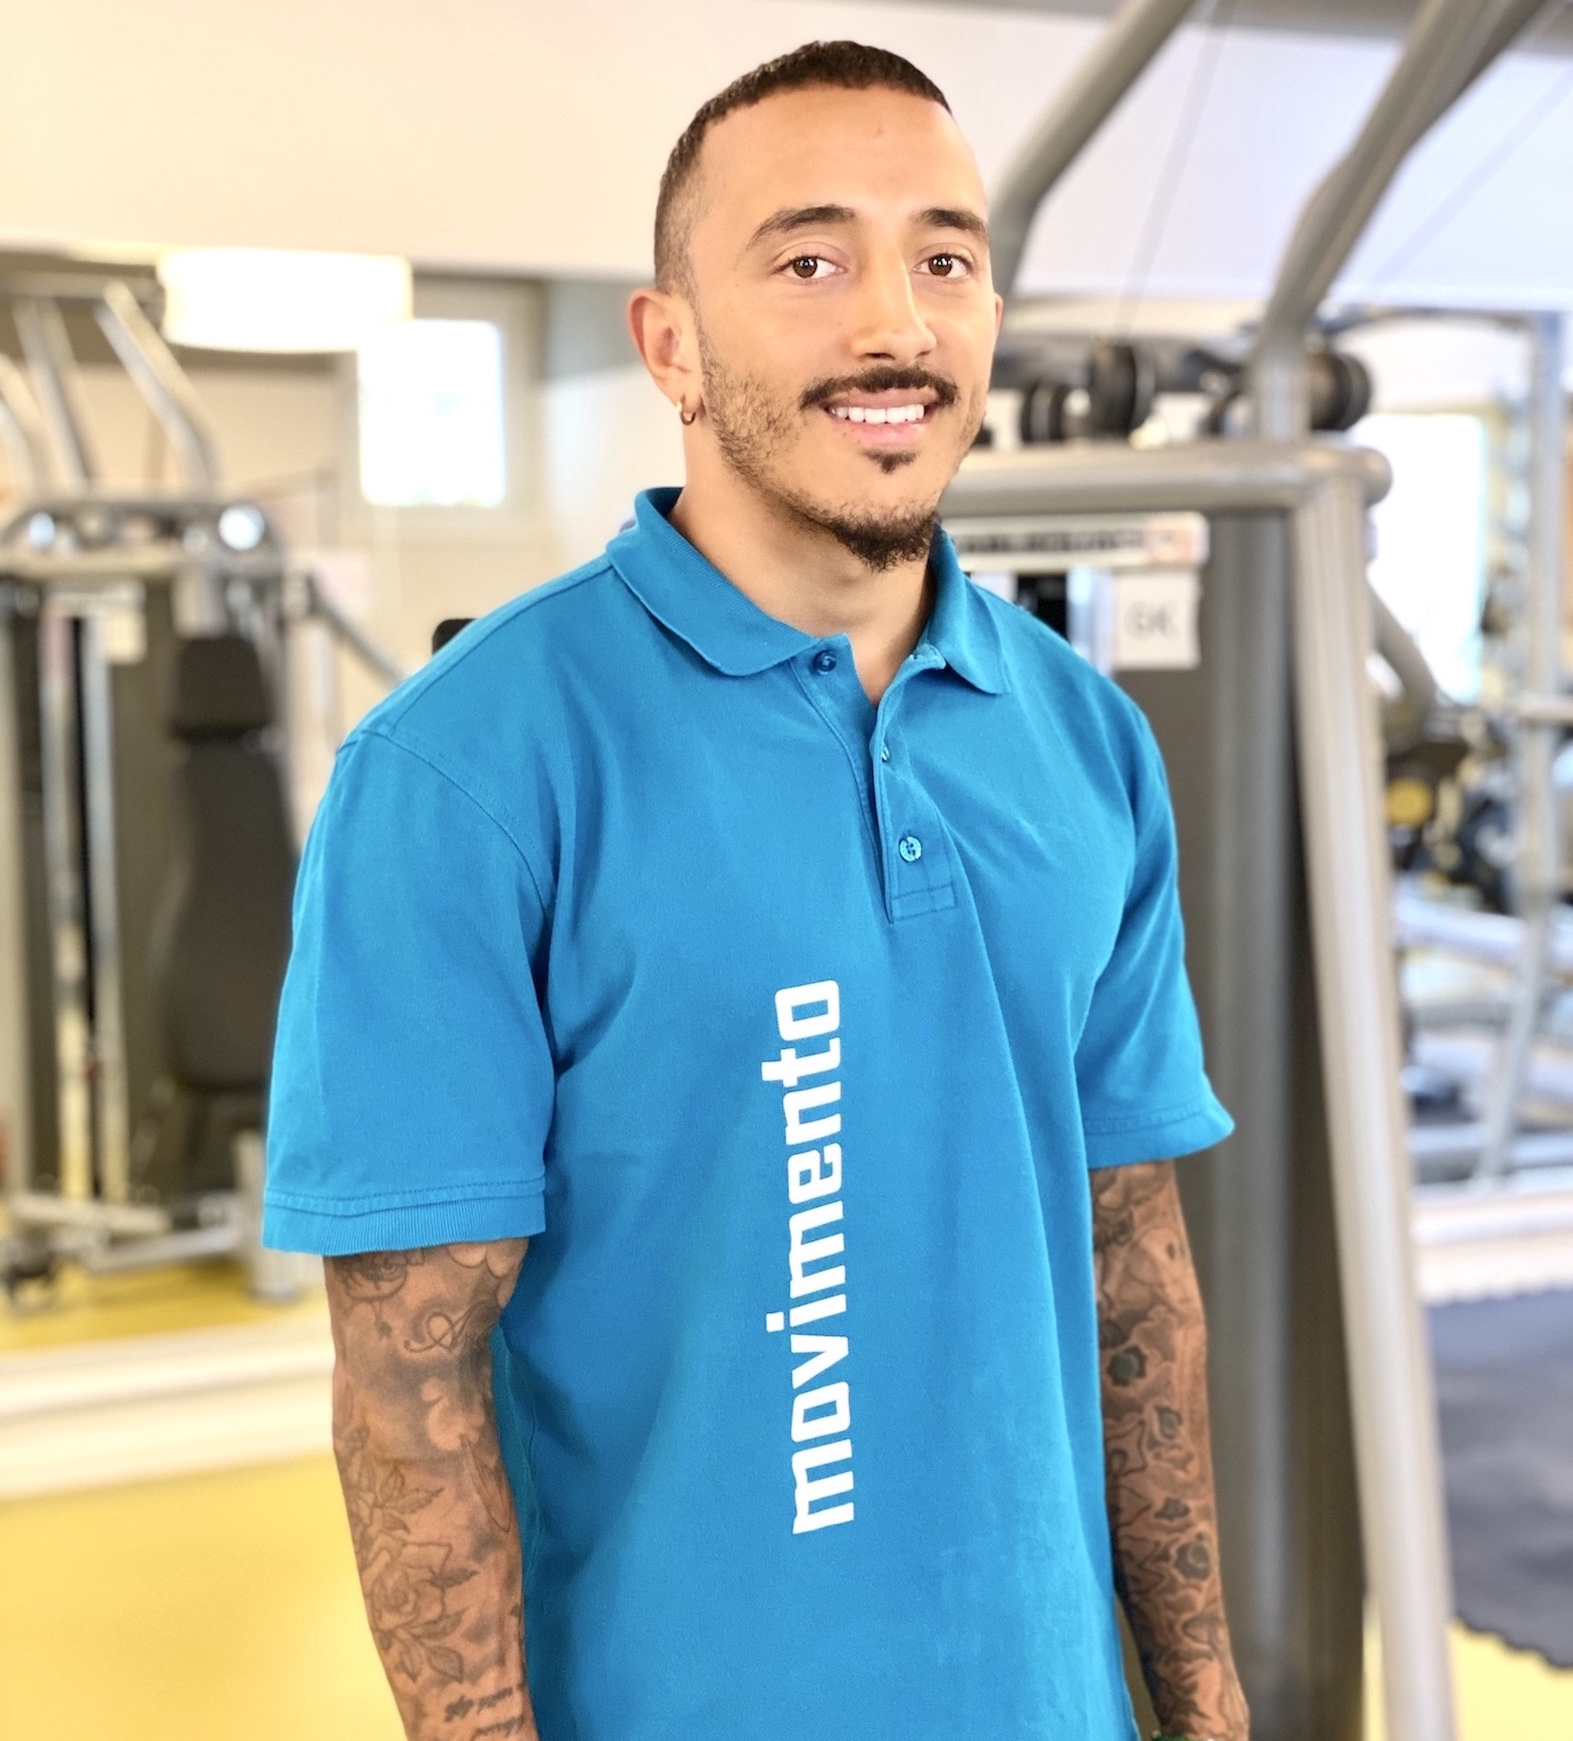
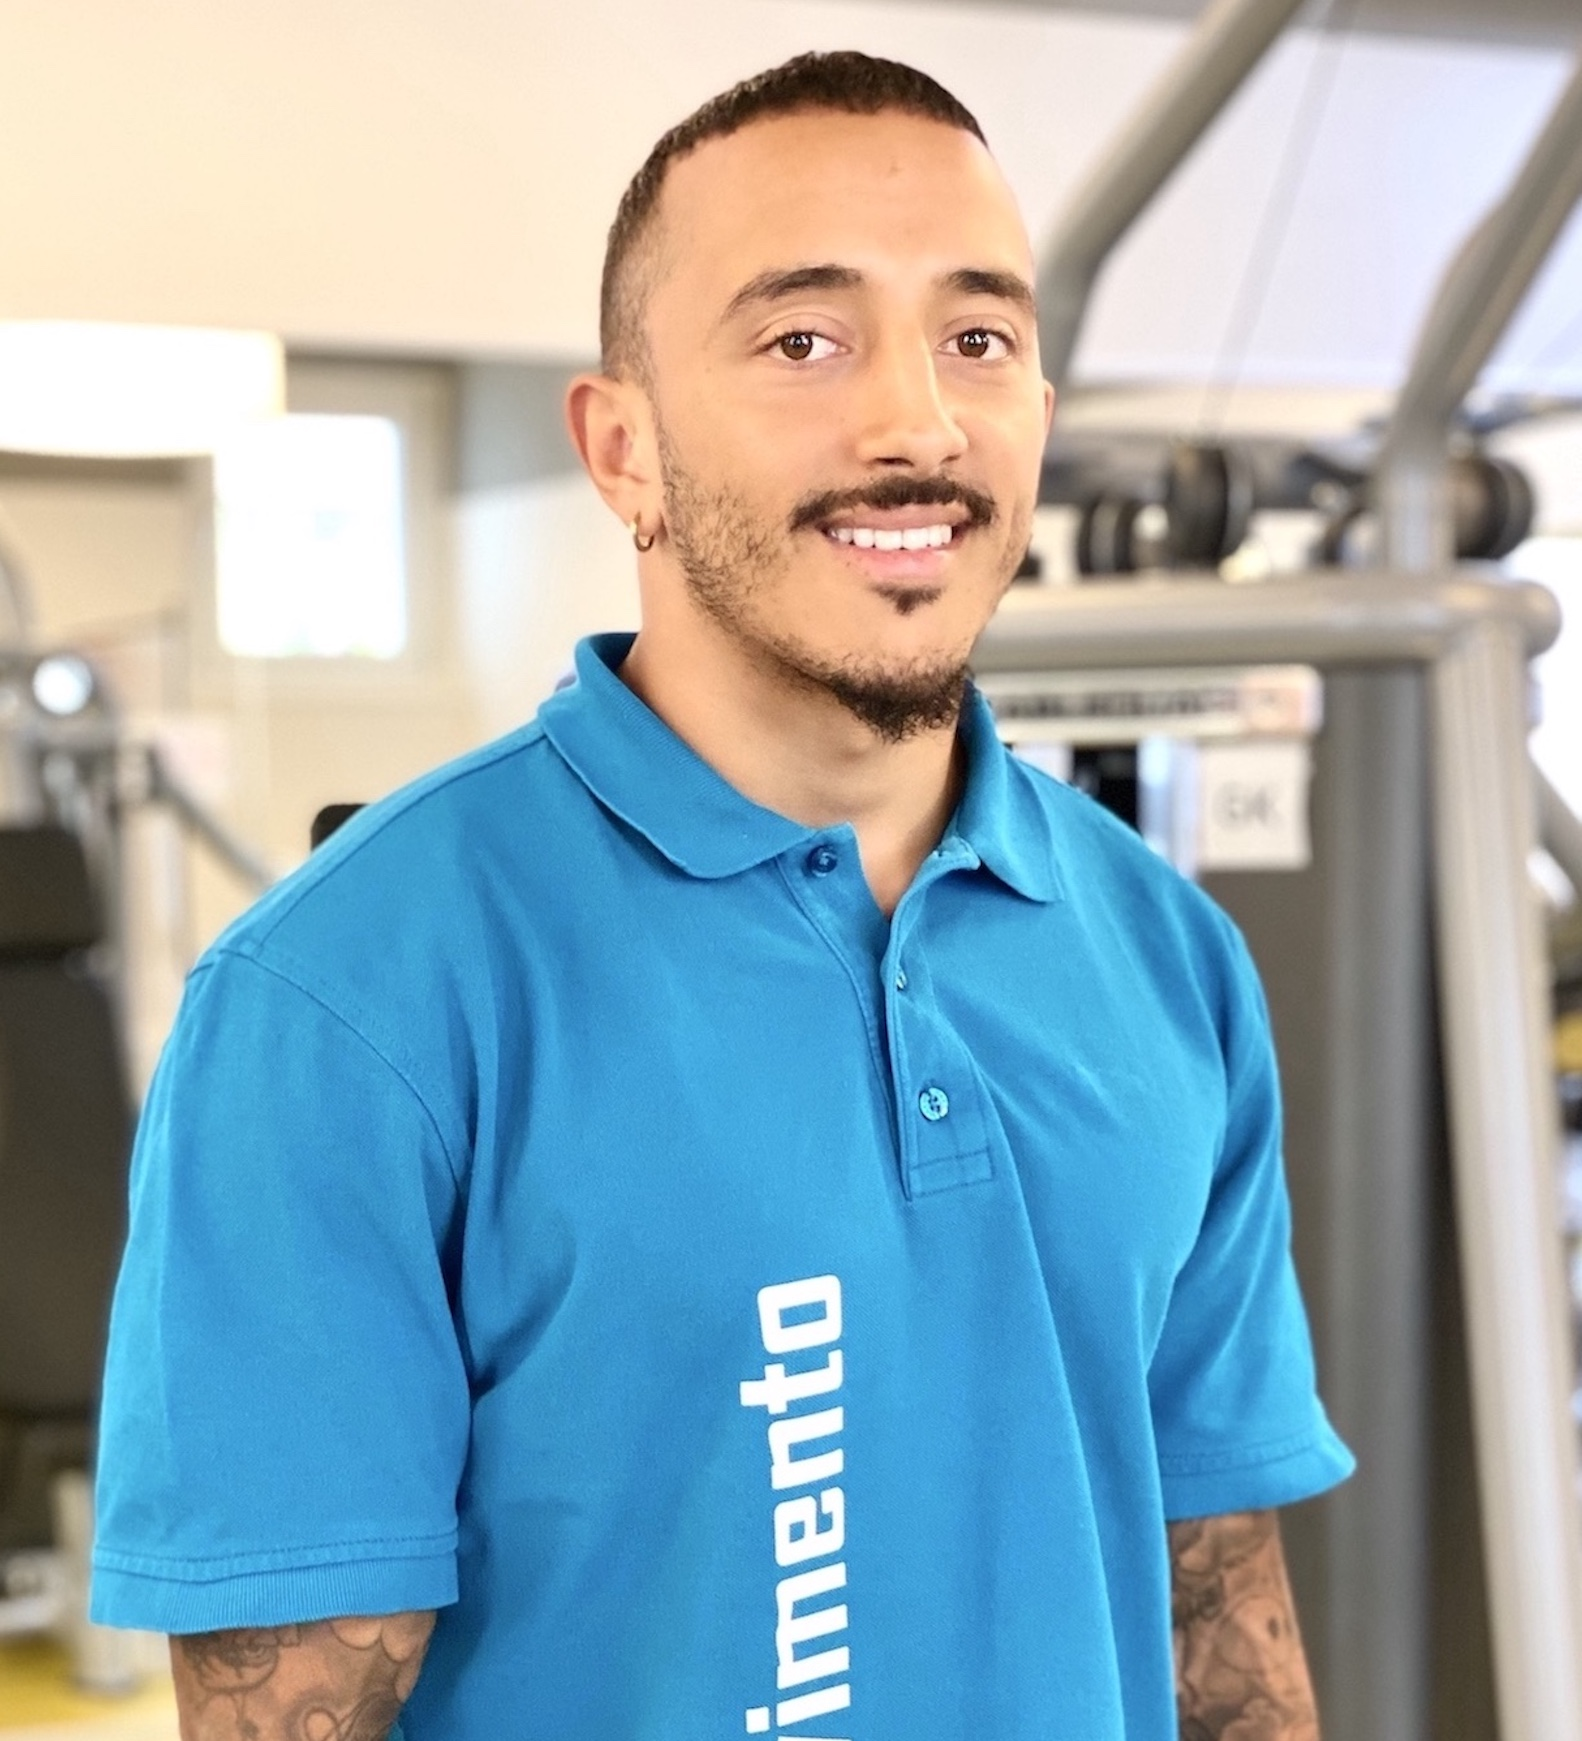
Carina Bild

diff --git a/carina-lang.html b/carina-lang.html
@@ -106,7 +106,7 @@
         </div>
     </div>
     <div class="row section">
-        <img class="col-lg-2 col-sm-6 col-xs-12" src="img/Blank_woman_placeholder.svg"/>
+        <img class="col-lg-2 col-sm-6 col-xs-12" src="img/Neue Fotos/Carina.jpg"/>
         <div class="col-lg-10 col-sm-6 col-xs-12">
             <!-- reactive vertical space -->
             <div class="hidden-md hidden-sm hidden-xs">&nbsp;</div>

diff --git a/team.html b/team.html
@@ -192,7 +192,7 @@
                         </a>
                     </p>
                 </div>
-                <img class="portrait col-md-push-3 col-md-4 col-xs-12" src="img/Blank_woman_placeholder.svg">
+                <img class="portrait col-md-push-3 col-md-4 col-xs-12" src="img/Neue Fotos/Carina.jpg">
             </div>  
         </div>       
         <div class="col-sm-6 col-xs-12">
